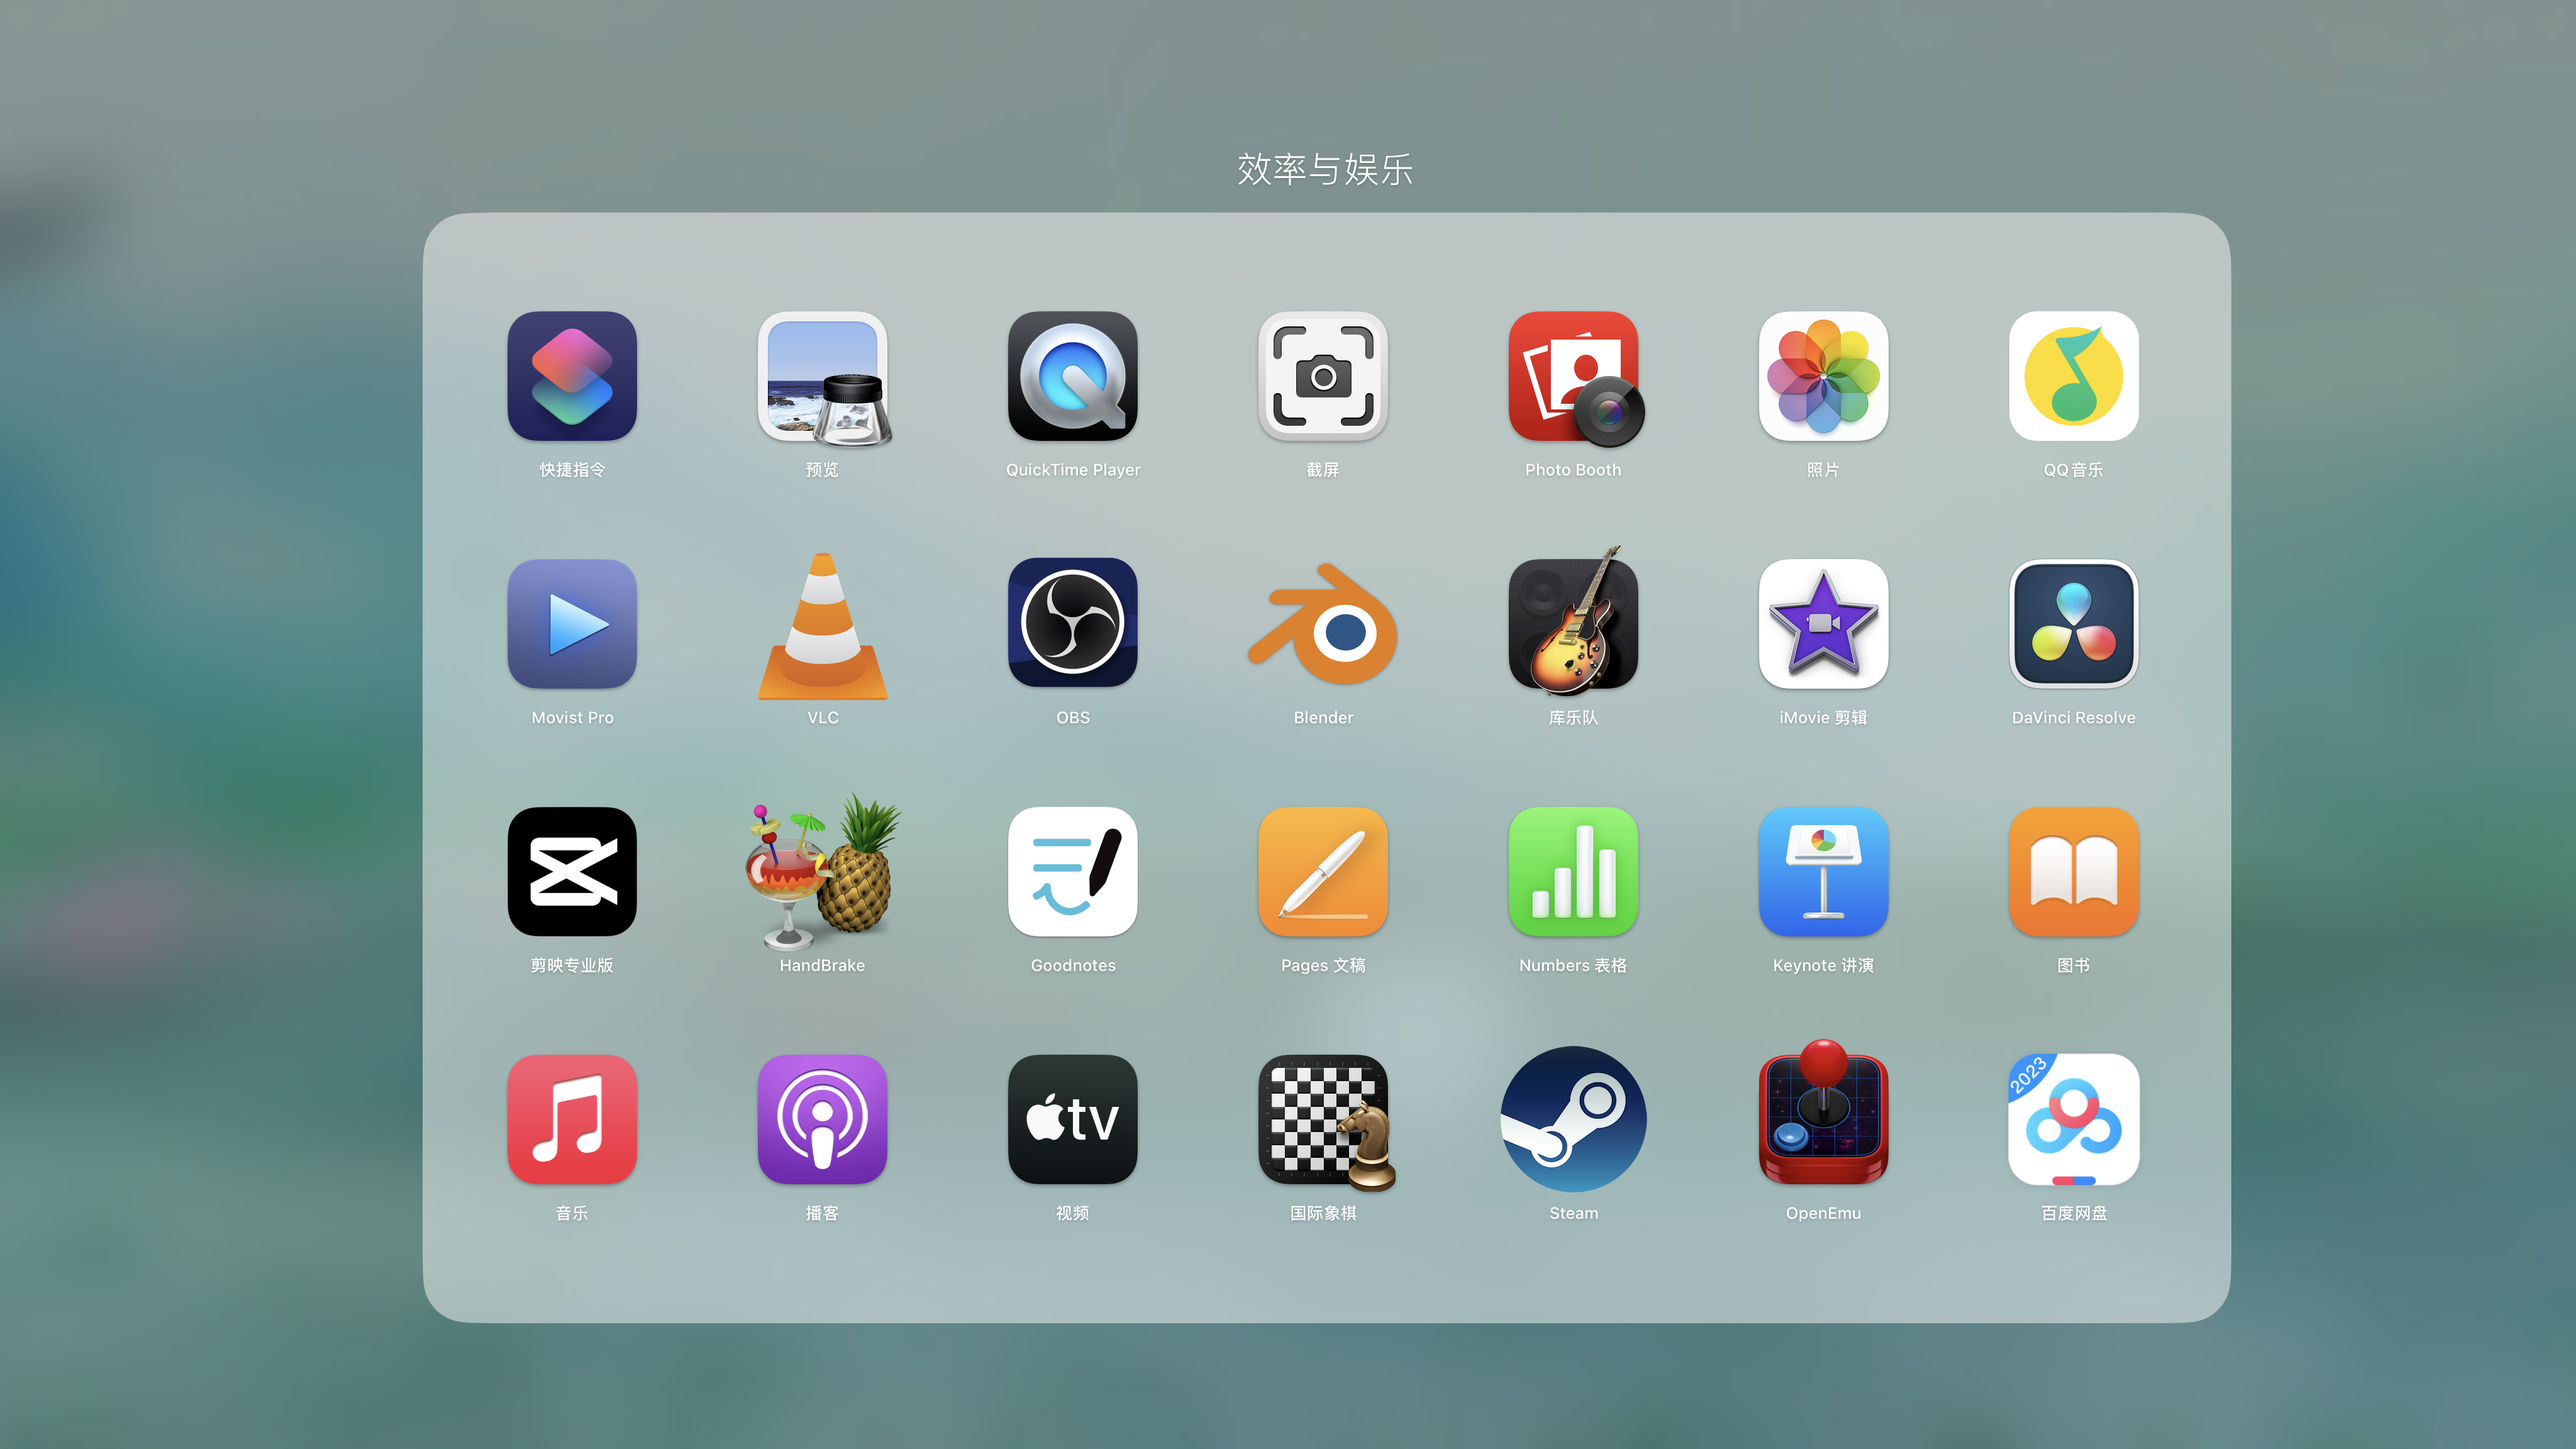
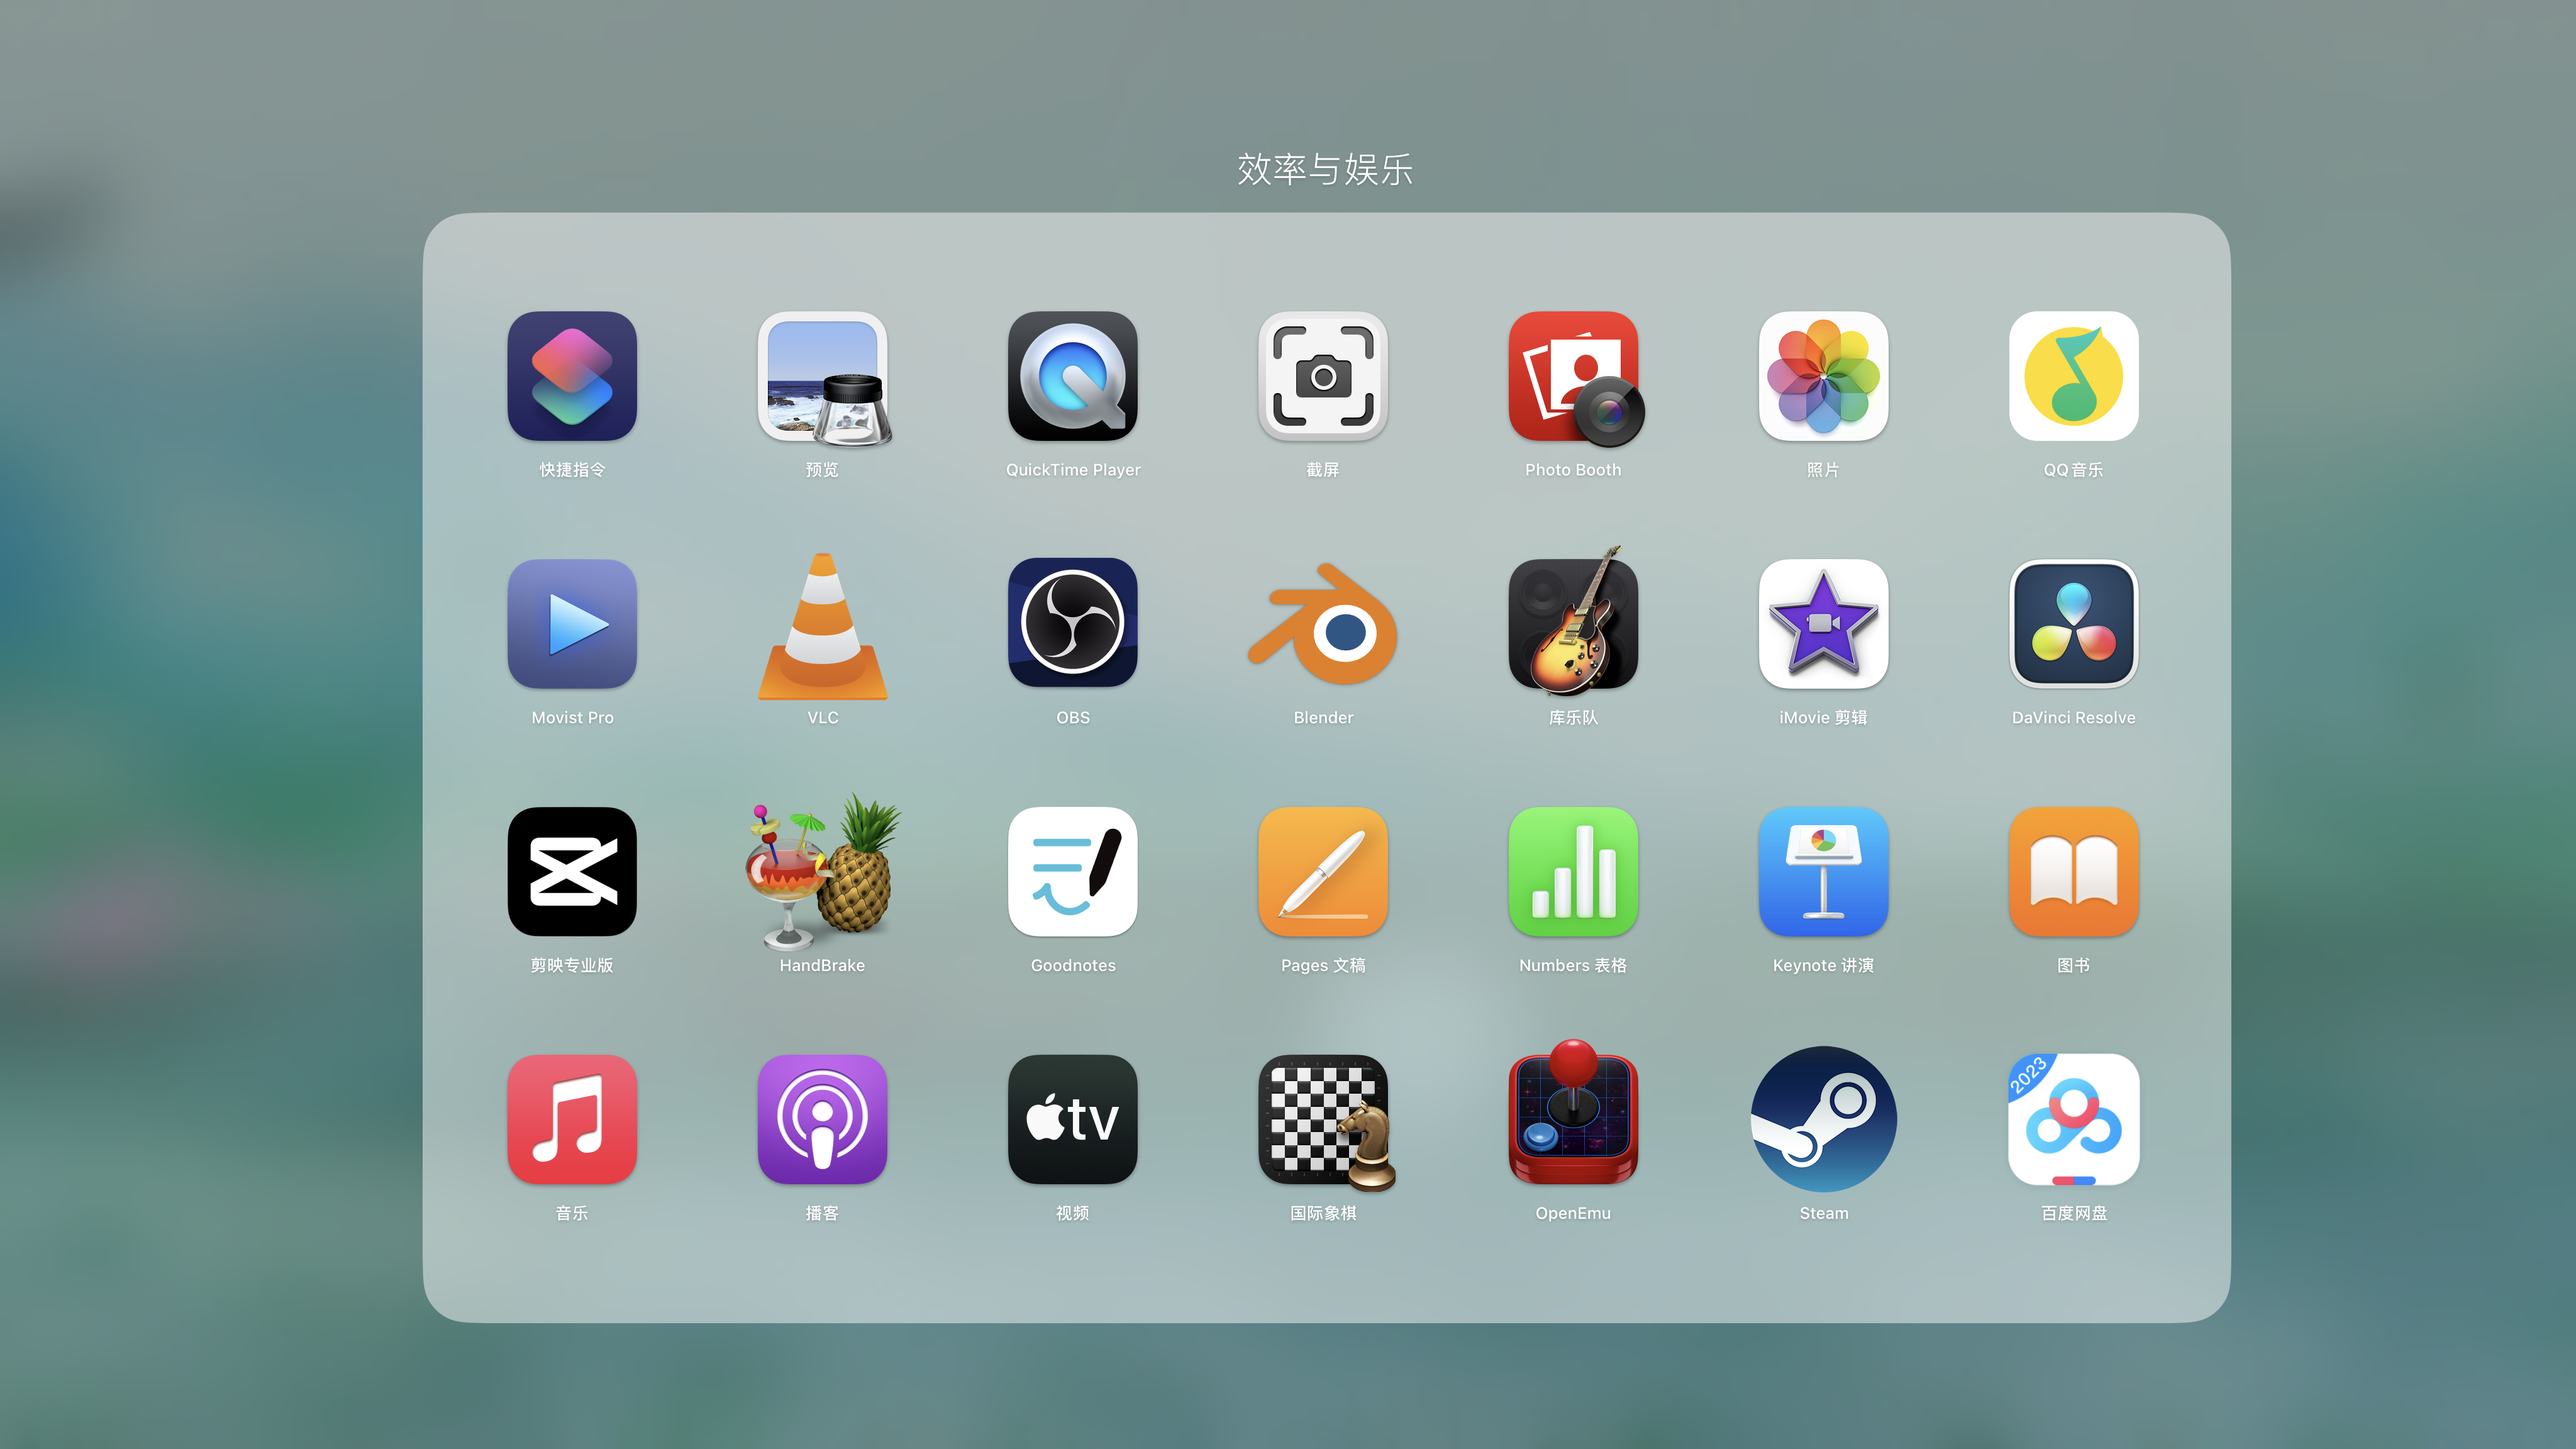
Upgrade

Changed region(s): [[0.5625, 0.7188, 0.75, 0.8438]]

diff --git a/README.md b/README.md
@@ -130,10 +130,10 @@
 
     * [Sourcetree](https://sourcetreeapp.com) ([Git](https://git-scm.com) GUI)
     * [_DBeaver_](https://dbeaver.io) (Universal Database Tool)
-    * [_Wireshark_](https://www.wireshark.org) (network protocol analyzer)
-    * [_Paw_](https://paw.cloud) (API tool) ([_httpie_](https://httpie.io))
     * [_Cyberduck_](https://cyberduck.io) (libre server and cloud storage browser) ([_duck_](https://duck.sh))
-    * [QGIS](https://www.qgis.org/zh-Hans/site/) (Geographic Information System)
+    * [_Paw_](https://paw.cloud) (API tool) ([_httpie_](https://httpie.io))
+    * [_Wireshark_](https://www.wireshark.org) (network protocol analyzer)
+    * [_QGIS_](https://www.qgis.org/zh-Hans/site/) (Geographic Information System)
 
 <br>
 
@@ -158,7 +158,8 @@
     * [Goodnotes](https://www.goodnotes.com) [App Store]
     * [iWork](https://www.apple.com.cn/iwork/) [App Store]
     * [~~iTunes~~](https://www.apple.com.cn/itunes/) (本地音乐播放器的纪念)
-    * [Steam](https://store.steampowered.com) ([_OpenEmu_](https://openemu.org))
+    * [OpenEmu](https://openemu.org)
+    * [Steam](https://store.steampowered.com)
     * [_百度网盘_](https://pan.baidu.com) [App Store]
 
 <br>
